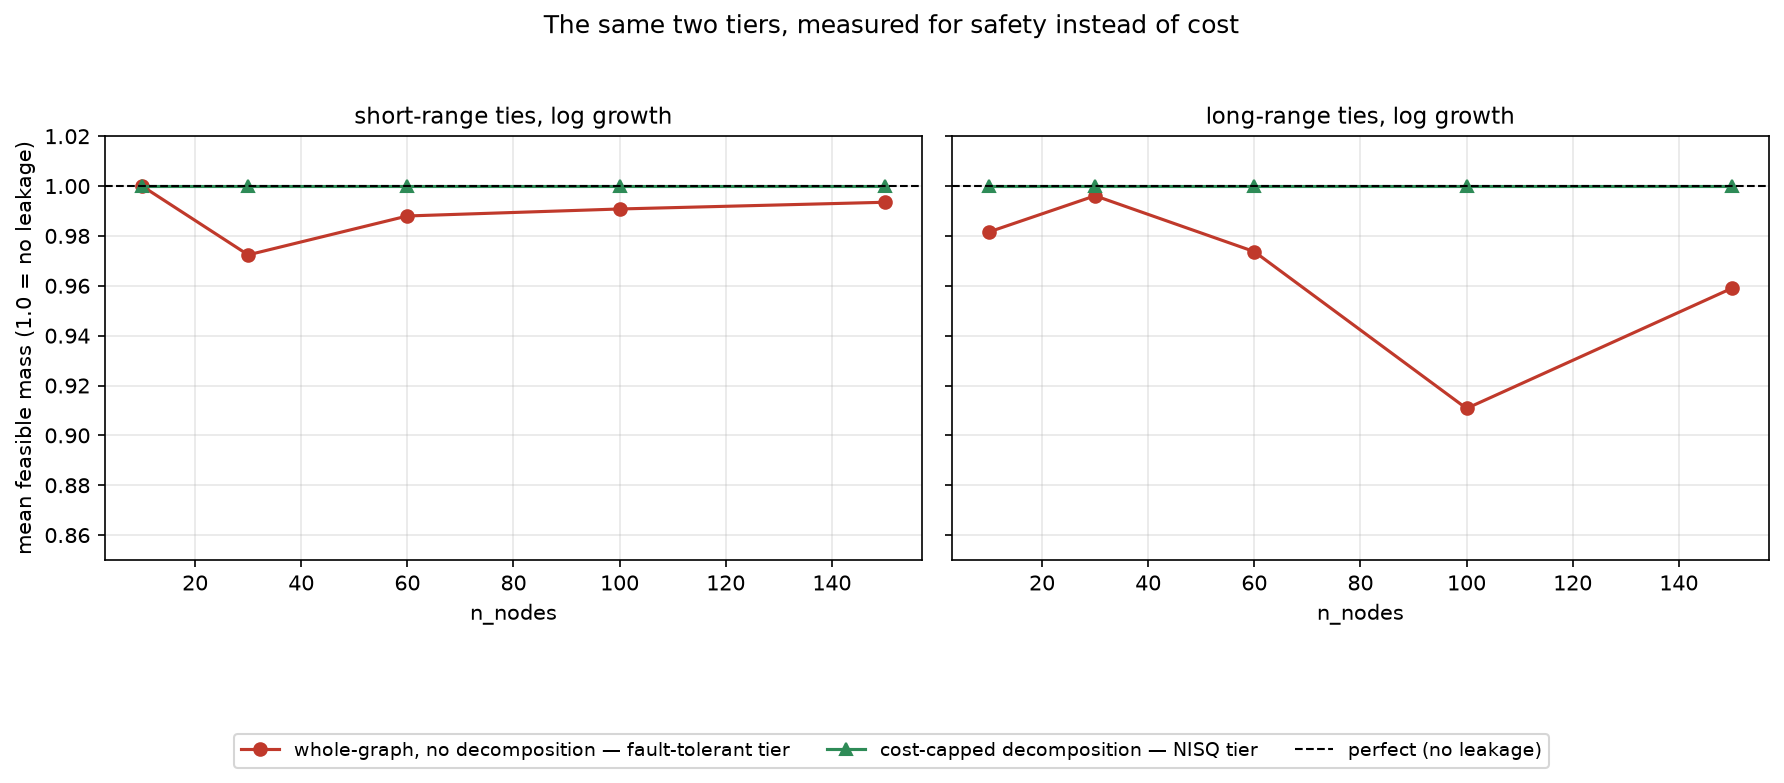
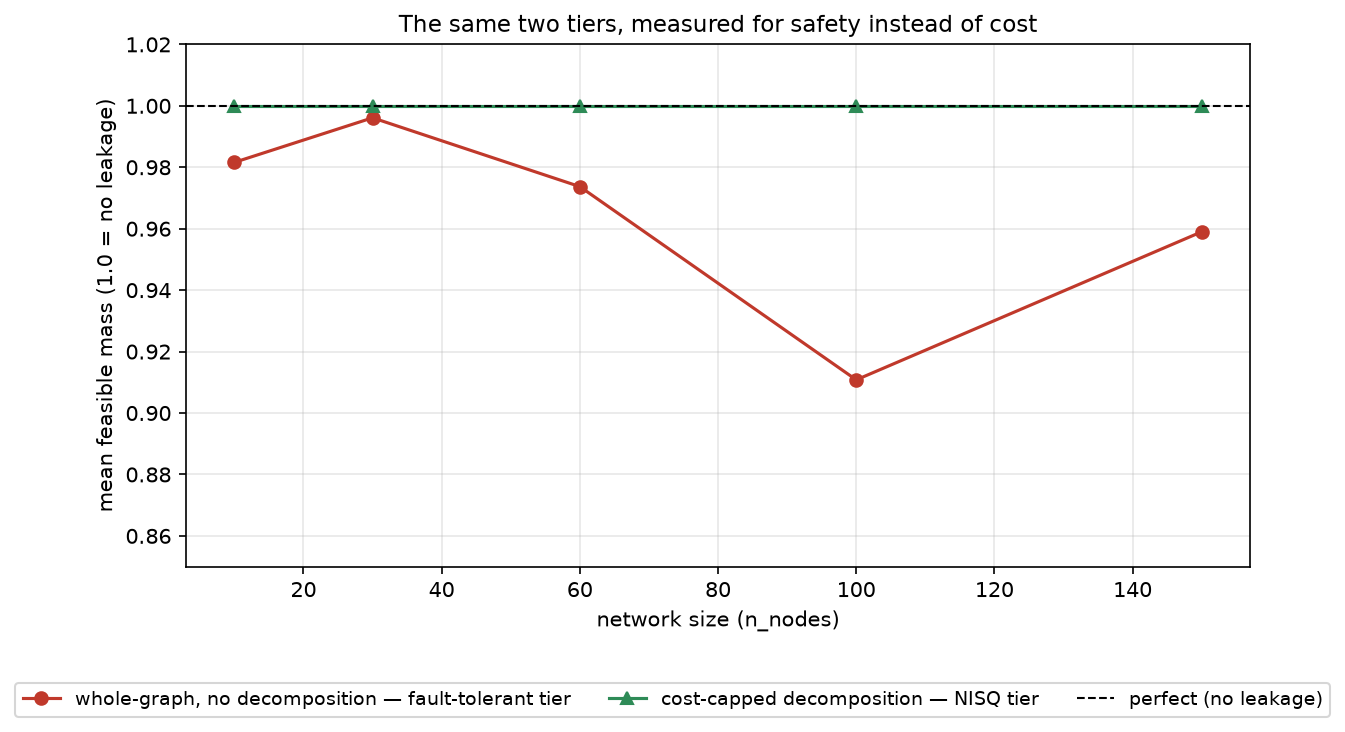
Remove short-range results from every figure; merge the two real-network figures into one
The short-range tie condition is a synthetic control, not a claim about
real feeders (real ties are long-range by design), and the README had
already dropped it from the headline cost plot. It survived in two
other figures: the safety plot, now single-panel long-range only to
match, and a synthetic NISQ-feasibility plot that nothing referenced --
deleted. The scaling-ladder doc's pointer now says the short-range
control is reported in its tables, not drawn.

The two real-network figures (bar chart of CX per tier; the same four
numbers as vertical lines on fidelity curves) said the same thing twice
at full width. Merged into real_networks_plot.png with the two as side
panels and a shared legend; the old PNGs are removed.

diff --git a/scripts/plot_results_figures.py b/scripts/plot_results_figures.py
@@ -14,28 +14,25 @@ artificially cheap on a cost axis and artificially perfect on a safety
 axis. Plotting either invites a comparison between things that aren't
 alternatives.
 
+Every synthetic figure shows the long-range-tie condition only: real
+ties are long-range by design, and the short-range condition is a
+synthetic control reported in the docs' tables, not drawn.
+
 1. `construction_progression_plot.png` -- synthetic ladder, CX vs. size,
-   both tiers, against the 500-CX target line. Long-range-tie condition
-   only (the one that models real feeders; the short-range control stays
-   in the docs and in figure 2).
+   both tiers, against the 500-CX target line. In the README.
 2. `synthetic_mass_progression_plot.png` -- same ladder, same two tiers,
-   mean feasible mass (safety) instead of CX.
-3. `synthetic_nisq_feasibility_plot.png` -- both tiers at the ladder's
-   hardest tested size (n_nodes=150), against published NISQ fidelity
-   curves.
-4. `real_network_comparison_plot.png` -- grouped bar chart, both tiers,
-   both real networks, against the 500-CX target line.
-5. `real_nisq_feasibility_plot.png` -- both tiers on both real networks,
-   against the same fidelity curves.
+   mean feasible mass (safety) instead of CX. Docs only.
+3. `real_networks_plot.png` -- both real networks, two panels: CX per
+   tier with min-max bars, and the same numbers on published NISQ
+   fidelity curves. In the README.
 
-Two more for the hard-instance case study (question 2), both in the
-README:
+For the hard-instance case study (question 2), all in the README:
 
-6. `hard_instance_proof_time_plot.png` -- CP-SAT proof time vs. gadget
+4. `hard_instance_proof_time_plot.png` -- CP-SAT proof time vs. gadget
    size, timeouts drawn as a wall.
-7. `mps_convergence_plot.png` -- MPS accuracy vs. exact where
+5. `mps_convergence_plot.png` -- MPS accuracy vs. exact where
    computable, and simulation time vs. size at fixed bond dimension.
-8. `large_b_grid_plot.png` -- the two dials (m, B) as a grid, one panel
+6. `large_b_grid_plot.png` -- the two dials (m, B) as a grid, one panel
    per classical route, DP cells carrying their state counts.
 
 (Two earlier figures were removed as redundant once the README's own
@@ -151,25 +148,26 @@ def plot_synthetic_mass_progression() -> None:
     # technique 2 = FIXED cost_alpha=0.01, this construction's validated
     # default -- NOT cost_aware_scaling_ladder_summary.csv, which
     # (per that script's own docstring) measures the ADAPTIVE variant.
+    # Long-range ties only, matching plot_construction_progression: the
+    # short-range condition is a synthetic control, not a claim about
+    # real feeders, and is reported in the docs' tables rather than drawn.
     whole = _rows("fixed_alpha_ladder_summary.csv")
     capped = _rows("cost_capped_decomposition_summary.csv")
 
-    fig, axes = plt.subplots(1, 2, figsize=(12, 4.8), sharey=True)
-    for ax, cond, title in ((axes[0], "short_log", "short-range ties, log growth"), (axes[1], "long_log", "long-range ties, log growth")):
-        xs_w, ys_w = _series(whole, "condition", cond, "n_nodes", "mean_feasible_mass_mean")
-        xs_c, ys_c = _series(capped, "condition", cond, "n_nodes", "mean_feasible_mass_mean")
-        ax.plot(xs_w, ys_w, marker="o", color="#C0392B", label="whole-graph, no decomposition — fault-tolerant tier")
-        ax.plot(xs_c, ys_c, marker="^", color="#2E8B57", label="cost-capped decomposition — NISQ tier")
-        ax.axhline(1.0, color="black", ls="dashed", lw=1, label="perfect (no leakage)")
-        ax.set_xlabel("n_nodes")
-        ax.set_title(title, fontsize=11)
-        ax.grid(True, alpha=0.3)
-        ax.set_ylim(0.85, 1.02)
-    axes[0].set_ylabel("mean feasible mass (1.0 = no leakage)")
-    handles, labels = axes[0].get_legend_handles_labels()
-    fig.legend(handles, labels, loc="lower center", ncol=3, fontsize=9, bbox_to_anchor=(0.5, -0.08))
-    fig.suptitle("The same two tiers, measured for safety instead of cost", fontsize=12)
-    fig.tight_layout(rect=(0, 0.1, 1, 0.95))
+    fig, ax = plt.subplots(figsize=(8, 4.8))
+    xs_w, ys_w = _series(whole, "condition", "long_log", "n_nodes", "mean_feasible_mass_mean")
+    xs_c, ys_c = _series(capped, "condition", "long_log", "n_nodes", "mean_feasible_mass_mean")
+    ax.plot(xs_w, ys_w, marker="o", color="#C0392B", label="whole-graph, no decomposition — fault-tolerant tier")
+    ax.plot(xs_c, ys_c, marker="^", color="#2E8B57", label="cost-capped decomposition — NISQ tier")
+    ax.axhline(1.0, color="black", ls="dashed", lw=1, label="perfect (no leakage)")
+    ax.set_xlabel("network size (n_nodes)")
+    ax.set_ylabel("mean feasible mass (1.0 = no leakage)")
+    ax.set_title("The same two tiers, measured for safety instead of cost", fontsize=11)
+    ax.grid(True, alpha=0.3)
+    ax.set_ylim(0.85, 1.02)
+    handles, labels = ax.get_legend_handles_labels()
+    fig.legend(handles, labels, loc="lower center", ncol=3, fontsize=9, bbox_to_anchor=(0.5, -0.02))
+    fig.tight_layout(rect=(0, 0.08, 1, 1))
     out = RESULTS_DIR / "synthetic_mass_progression_plot.png"
     fig.savefig(out, dpi=150, bbox_inches="tight")
     plt.close(fig)
@@ -188,134 +186,76 @@ def _fidelity_axes(ax, title: str) -> None:
     ax.grid(True, alpha=0.3, which="both")
 
 
-def plot_synthetic_nisq_feasibility() -> None:
-    """Vertical reference lines, not curve-placed markers -- same reasoning
-    as the real-network version: a marker sitting ON one curve would
-    misleadingly imply that curve's fidelity even where the other curve's
-    value is what matters. Uses the ladder's hardest tested size
-    (n_nodes=150) as the representative point for each condition."""
-    # technique 2 = FIXED cost_alpha=0.01, this construction's validated
-    # default -- NOT cost_aware_scaling_ladder_summary.csv, which
-    # (per that script's own docstring) measures the ADAPTIVE variant.
-    whole = _rows("fixed_alpha_ladder_summary.csv")
-    capped = _rows("cost_capped_decomposition_summary.csv")
+def plot_real_networks() -> None:
+    """The two real networks on one figure, two panels: left, transpiled
+    CX per tier with min-max bars over SEEDS_PER_NETWORK seeds; right,
+    where those same numbers land on published NISQ fidelity curves,
+    drawn as vertical reference lines (a marker sitting ON one curve
+    would misleadingly imply that curve's fidelity where the other's
+    value is what matters). Replaces two separate figures that said the
+    same four numbers twice at full width.
 
-    def cx_at_150(rows: list[dict], condition: str) -> float:
-        return next(float(r["cx_mean"]) for r in rows if r["condition"] == condition and r["n_nodes"] == "150")
-
-    fig, ax = plt.subplots(figsize=(9, 5.5))
-    _fidelity_axes(ax, "Where the synthetic ladder lands relative to NISQ feasibility\n(hardest tested size, n_nodes=150)")
-
-    lines = [
-        ("short-range, whole-graph", cx_at_150(whole, "short_log"), "#D9822B", "dashdot"),
-        ("short-range, cost-capped", cx_at_150(capped, "short_log"), "#2E8B57", "solid"),
-        ("long-range, whole-graph", cx_at_150(whole, "long_log"), "#B0392B", "dashdot"),
-        ("long-range, cost-capped", cx_at_150(capped, "long_log"), "#66C2A5", "solid"),
-    ]
-    for label, xval, color, ls in lines:
-        ax.axvline(xval, color=color, ls=ls, lw=1.6, alpha=0.85, label=f"{label} ({int(round(xval))} CX)", zorder=2)
-
-    ax.legend(fontsize=8, loc="lower left", ncol=1)
-    fig.tight_layout()
-    out = RESULTS_DIR / "synthetic_nisq_feasibility_plot.png"
-    fig.savefig(out, dpi=150)
-    plt.close(fig)
-    print(f"wrote {out}")
-
-
-def plot_real_nisq_feasibility() -> None:
-    """Uses real_networks_hierarchical_summary.csv (mean over
-    SEEDS_PER_NETWORK seeds for decomposed/cost_capped -- see that
-    script's own docstring for why averaging matters here: CIGRE MV's
-    flat-decomposed result varies 3,668-9,178 CX depending on seed, even
-    though its zones use fully deterministic exact tree enumeration
-    (the randomness is in the witness search's restart order, not the
-    tree set)."""
+    Two tiers only, matching the synthetic figures: whole-graph
+    (fault-tolerant) and cost-capped decomposition (NISQ). Zone
+    decomposition alone and the exact construction are omitted for the
+    same reason as everywhere else -- neither is a tier anyone would
+    deploy (3a is dominated by 3b; the exact construction's IEEE33 result
+    is cheap only because it is mostly incomplete, 573/597 candidates
+    dropped and disconnected). Means over 5 seeds -- CIGRE MV's
+    whole-graph tier varies 274-432 CX with seed."""
     real = _rows("real_networks_hierarchical_summary.csv")
 
-    def cx_of(network: str, method: str) -> float | None:
-        for r in real:
-            if r["network"] == network and r["method"] == method:
-                return float(r["cx_mean"])
-        return None
-
-    fig, ax = plt.subplots(figsize=(9, 5.5))
-    _fidelity_axes(ax, "Where each real network's two tiers land relative to NISQ feasibility\n(read a network's fidelity off either curve at its vertical line; mean over 5 seeds)")
-
-    # Two tiers only, matching the synthetic figures: whole-graph
-    # (fault-tolerant) and cost-capped decomposition (NISQ). Zone
-    # decomposition alone and the exact construction are both omitted for
-    # the same reason they are omitted from the synthetic plots -- neither
-    # is a tier anyone would deploy (3a is strictly dominated by 3b; the
-    # exact construction's IEEE33 result is cheap only because it is
-    # mostly incomplete, 573/597 candidates dropped and disconnected).
-    lines = [
-        ("CIGRE MV whole-graph (fault-tolerant)", cx_of("CIGRE_MV", "truncated_whole_graph"), "#C0392B", "dashdot"),
-        ("CIGRE MV cost-capped (NISQ)", cx_of("CIGRE_MV", "cost_capped"), "#2E8B57", "solid"),
-        ("IEEE33 whole-graph (fault-tolerant)", cx_of("IEEE33", "truncated_whole_graph"), "#E8746A", "dashdot"),
-        ("IEEE33 cost-capped (NISQ)", cx_of("IEEE33", "cost_capped"), "#66C2A5", "solid"),
-    ]
-    for label, xval, color, ls in lines:
-        if xval is None:
-            continue
-        ax.axvline(xval, color=color, ls=ls, lw=1.6, alpha=0.85, label=f"{label} ({int(round(xval))} CX)", zorder=2)
-
-    ax.legend(fontsize=8, loc="lower left", ncol=1)
-    fig.tight_layout()
-    out = RESULTS_DIR / "real_nisq_feasibility_plot.png"
-    fig.savefig(out, dpi=150)
-    plt.close(fig)
-    print(f"wrote {out}")
-
-
-def plot_real_network_comparison() -> None:
-    """Two tiers per network, error bars = min-max across
-    SEEDS_PER_NETWORK seeds. Same two-line restriction as the synthetic
-    figures (see plot_construction_progression's docstring): zone
-    decomposition alone and the exact construction are omitted because
-    neither is a deployable tier."""
-    real = _rows("real_networks_hierarchical_summary.csv")
-
-    def stats_of(network: str, method: str) -> tuple[float, float, float] | None:
-        for r in real:
-            if r["network"] == network and r["method"] == method:
-                return float(r["cx_mean"]), float(r["cx_min"]), float(r["cx_max"])
-        return None
+    def stats_of(network: str, method: str) -> tuple[float, float, float]:
+        r = next(r for r in real if r["network"] == network and r["method"] == method)
+        return float(r["cx_mean"]), float(r["cx_min"]), float(r["cx_max"])
 
     networks = ["CIGRE_MV", "IEEE33"]
-    methods = [
-        ("truncated_whole_graph", "whole-graph, no decomposition — fault-tolerant tier", "#C0392B"),
-        ("cost_capped", "cost-capped decomposition — NISQ tier", "#2E8B57"),
+    tiers = [
+        ("truncated_whole_graph", "whole-graph, no decomposition — fault-tolerant tier", "#C0392B", "#E8746A", "dashdot"),
+        ("cost_capped", "cost-capped decomposition — NISQ tier", "#2E8B57", "#66C2A5", "solid"),
     ]
 
-    fig, ax = plt.subplots(figsize=(8, 5))
+    fig, (ax_bar, ax_fid) = plt.subplots(1, 2, figsize=(13, 5), gridspec_kw={"width_ratios": [1, 1.25]})
+
+    # --- left: bars
     x = np.arange(len(networks))
     width = 0.32
-    for i, (method, label, color) in enumerate(methods):
+    for i, (method, label, color, _, _) in enumerate(tiers):
         vals, err_lo, err_hi = [], [], []
         for net in networks:
             v, mn, mx = stats_of(net, method)
             vals.append(v)
             err_lo.append(v - mn)
             err_hi.append(mx - v)
-        bars = ax.bar(x + (i - 0.5) * width, vals, width, label=label, color=color,
-                       yerr=[err_lo, err_hi], capsize=4, ecolor="black")
+        bars = ax_bar.bar(x + (i - 0.5) * width, vals, width, label=label, color=color,
+                          yerr=[err_lo, err_hi], capsize=4, ecolor="black")
         for b, v, hi in zip(bars, vals, err_hi):
-            # label above the error bar's upper cap, not on top of it
-            ax.text(b.get_x() + b.get_width() / 2, (v + hi) * 1.08, f"{int(round(v))}",
-                    ha="center", va="bottom", fontsize=8)
+            ax_bar.text(b.get_x() + b.get_width() / 2, (v + hi) * 1.08, f"{int(round(v))}",
+                        ha="center", va="bottom", fontsize=8)
+    ax_bar.axhline(CX_THRESHOLD, color="black", ls="dashed", lw=1, label=f"{CX_THRESHOLD} CX target")
+    ax_bar.set_yscale("log")
+    ax_bar.set_xticks(x)
+    ax_bar.set_xticklabels(["CIGRE MV\n(15 bus, 3 ties)", "IEEE33\n(33 bus, 5 ties)"])
+    ax_bar.set_ylabel("transpiled CX count")
+    ax_bar.set_title("Circuit cost per tier (mean over 5 seeds, bars = min–max)", fontsize=10.5)
+    ax_bar.grid(True, alpha=0.3, axis="y", which="both")
 
-    ax.axhline(CX_THRESHOLD, color="black", ls="dashed", lw=1, label=f"{CX_THRESHOLD} CX target")
-    ax.set_yscale("log")
-    ax.set_xticks(x)
-    ax.set_xticklabels(["CIGRE MV (15 bus, 3 ties)", "IEEE33 (33 bus, 5 ties)"])
-    ax.set_ylabel("transpiled CX count")
-    ax.set_title("Real networks: the two deployment tiers")
-    ax.legend(fontsize=9)
-    ax.grid(True, alpha=0.3, axis="y", which="both")
-    fig.tight_layout()
-    out = RESULTS_DIR / "real_network_comparison_plot.png"
-    fig.savefig(out, dpi=150)
+    # --- right: the same numbers on the fidelity curves
+    _fidelity_axes(ax_fid, "Where those costs land on today's hardware")
+    for net, net_label in (("CIGRE_MV", "CIGRE MV"), ("IEEE33", "IEEE33")):
+        for method, _, color, light, ls in tiers:
+            v, _, _ = stats_of(net, method)
+            c = color if net == "CIGRE_MV" else light
+            tier_word = "whole-graph" if method == "truncated_whole_graph" else "cost-capped"
+            ax_fid.axvline(v, color=c, ls=ls, lw=1.6, alpha=0.85, label=f"{net_label} {tier_word} ({int(round(v))} CX)", zorder=2)
+    ax_fid.legend(fontsize=7.5, loc="lower left")
+
+    handles, labels = ax_bar.get_legend_handles_labels()
+    fig.legend(handles, labels, loc="lower center", ncol=3, fontsize=9, bbox_to_anchor=(0.5, -0.02))
+    fig.suptitle("Real networks: the two deployment tiers", fontsize=12)
+    fig.tight_layout(rect=(0, 0.07, 1, 0.95))
+    out = RESULTS_DIR / "real_networks_plot.png"
+    fig.savefig(out, dpi=150, bbox_inches="tight")
     plt.close(fig)
     print(f"wrote {out}")
 
@@ -514,9 +454,7 @@ def plot_large_b_grid() -> None:
 if __name__ == "__main__":
     plot_construction_progression()
     plot_synthetic_mass_progression()
-    plot_synthetic_nisq_feasibility()
-    plot_real_nisq_feasibility()
-    plot_real_network_comparison()
+    plot_real_networks()
     plot_hard_instance_proof_time()
     plot_mps_convergence()
     plot_large_b_grid()

diff --git a/docs/scaling-ladder-and-decomposition.md b/docs/scaling-ladder-and-decomposition.md
@@ -170,9 +170,10 @@ past a floor size.
 
 A fair question about section 2's own figures (and the README's
 `construction_progression_plot.png` / `synthetic_mass_progression_plot.png`,
-which reuse this same data — the README embeds only the cost plot, and
-only its long-range condition; the short-range control and the safety
-companion are generated but live here): they compare the
+which reuse this same data — both drawn for the long-range condition
+only; the README embeds the cost plot, the safety companion lives here,
+and the short-range control condition is reported in this document's
+tables rather than drawn): they compare the
 cost-aware bounded-witness mixer against its cost-capped decomposed
 variant (those two being the repo's two deployment tiers — both figures
 were narrowed to just those, dropping the intermediate

diff --git a/README.md b/README.md
@@ -153,9 +153,7 @@ be convenient. Both tiers were built on the CIGRE MV benchmark (15
 buses, 3 ties) and the IEEE 33-bus feeder (33 buses, 5 ties), five
 random seeds each:
 
-![Real networks: the two deployment tiers](results/real_network_comparison_plot.png)
-
-![Where each real network's two tiers land relative to NISQ feasibility](results/real_nisq_feasibility_plot.png)
+![Real networks: the two deployment tiers — circuit cost per tier, and where those costs land on today's hardware](results/real_networks_plot.png)
 
 Tier 2 lands comfortably inside today's hardware budget on both
 networks — 64 CX at depth 147 on 17 qubits, 132 CX at depth 272 on 37
